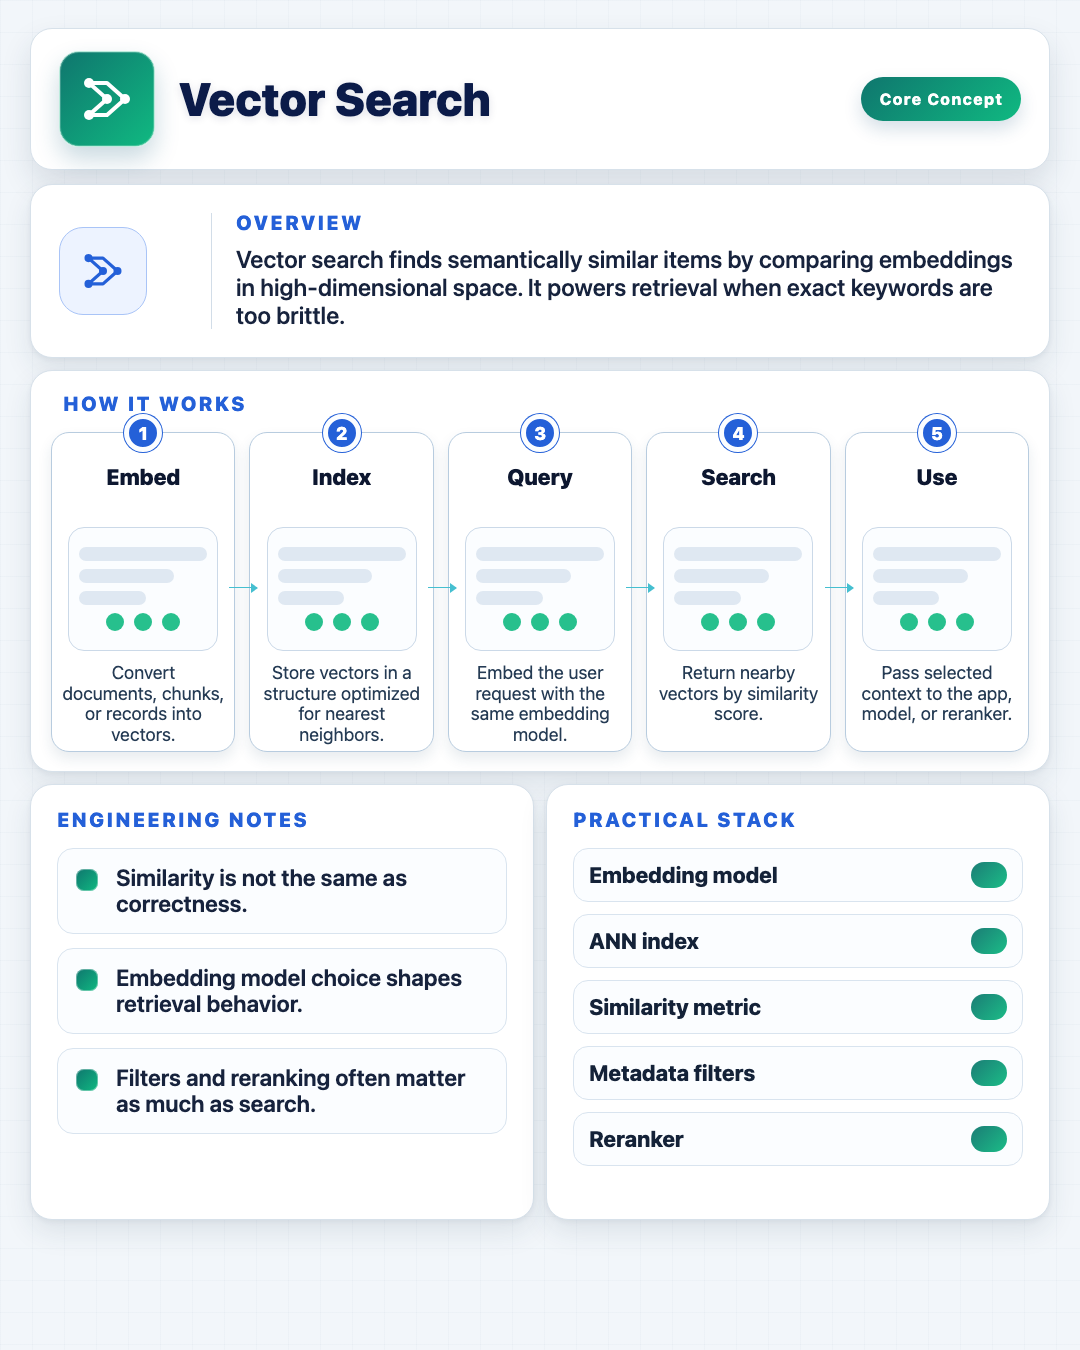
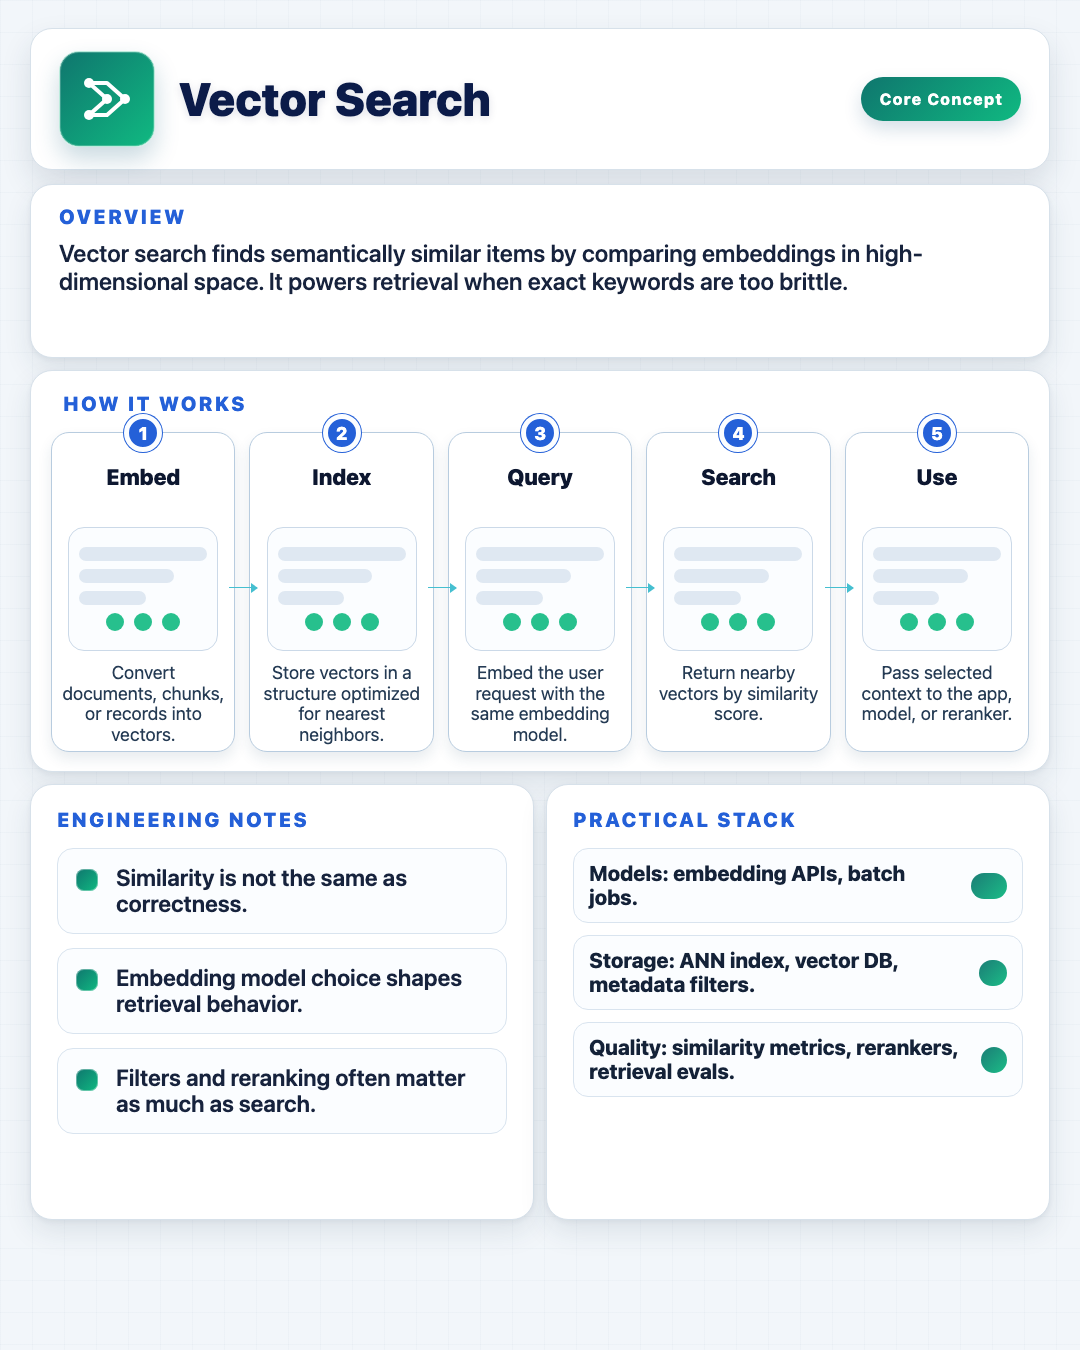
Update AI engineering concept cards and tracker

Changed region(s): [[0.5194, 0.6222, 0.9472, 0.8711], [0.0611, 0.1556, 0.9472, 0.2489], [0.55, 0.84, 0.6417, 0.8711]]

diff --git a/series/ai-engineering-concepts/templates/01-ai-fundamentals/08-fine-tuning-card.html b/series/ai-engineering-concepts/templates/01-ai-fundamentals/08-fine-tuning-card.html
@@ -83,23 +83,7 @@
   .overview {
     height: 174px;
     padding: 22px 28px;
-    display: grid;
-    grid-template-columns: 128px 1fr;
-    gap: 24px;
-    align-items: center;
   }
-  .section-mark {
-    width: 88px;
-    height: 88px;
-    display: grid;
-    place-items: center;
-    border: 1px solid #a9c4f7;
-    border-radius: 24px;
-    color: #2460d8;
-    background: #edf3ff;
-  }
-  .section-mark svg { width: 58px; height: 58px; stroke-width: 2.8; }
-  .overview-copy { border-left: 1px solid #d2dde8; padding-left: 24px; }
   .overview .section-title { margin-bottom: 12px; }
   .overview p {
     margin: 0;
@@ -235,7 +219,7 @@
     gap: 12px;
   }
   .tool {
-    min-height: 54px;
+    min-height: 74px;
     padding: 13px 15px;
     display: flex;
     align-items: center;
@@ -245,8 +229,8 @@
     border-radius: 15px;
     background: #fbfdff;
     color: #142238;
-    font-size: 22px;
-    line-height: 1;
+    font-size: 21px;
+    line-height: 1.12;
     font-weight: 780;
   }
   .tool span {
@@ -273,13 +257,6 @@
   </header>
   <div class="stack">
     <section class="panel overview" aria-labelledby="overview-title">
-      <div class="section-mark"><svg viewBox="0 0 72 72" fill="none" aria-hidden="true">
-    <path d="M18 20h18l18 16-18 16H18l18-16-18-16Z" stroke="currentColor" stroke-width="4" stroke-linejoin="round"/>
-    <circle cx="18" cy="20" r="5" fill="currentColor"/>
-    <circle cx="36" cy="36" r="5" fill="currentColor"/>
-    <circle cx="18" cy="52" r="5" fill="currentColor"/>
-    <circle cx="54" cy="36" r="5" fill="currentColor"/>
-  </svg></div>
       <div class="overview-copy">
         <h2 id="overview-title" class="section-title">OVERVIEW</h2>
         <p>Fine-tuning teaches a model repeated patterns from examples. Use it when behavior, tone, format, or domain-specific decisions must be consistent beyond what prompting or retrieval can reliably provide.</p>
@@ -330,11 +307,9 @@
       <div class="panel tools">
         <h2 class="section-title">PRACTICAL STACK</h2>
         <div class="tool-grid">
-          <div class="tool">Datasets<span></span></div>
-          <div class="tool">Training job<span></span></div>
-          <div class="tool">Eval suite<span></span></div>
-          <div class="tool">Model registry<span></span></div>
-          <div class="tool">Release gates<span></span></div>
+          <div class="tool">Data: curated examples, labels, held-out sets.<span></span></div>
+          <div class="tool">Training: jobs, configs, model versions.<span></span></div>
+          <div class="tool">Release: eval suite, registry, rollback gates.<span></span></div>
         </div>
       </div>
     </section>

diff --git a/series/ai-engineering-concepts/templates/02-retrieval-knowledge-systems/11-vector-search-card.html b/series/ai-engineering-concepts/templates/02-retrieval-knowledge-systems/11-vector-search-card.html
@@ -83,23 +83,7 @@
   .overview {
     height: 174px;
     padding: 22px 28px;
-    display: grid;
-    grid-template-columns: 128px 1fr;
-    gap: 24px;
-    align-items: center;
   }
-  .section-mark {
-    width: 88px;
-    height: 88px;
-    display: grid;
-    place-items: center;
-    border: 1px solid #a9c4f7;
-    border-radius: 24px;
-    color: #2460d8;
-    background: #edf3ff;
-  }
-  .section-mark svg { width: 58px; height: 58px; stroke-width: 2.8; }
-  .overview-copy { border-left: 1px solid #d2dde8; padding-left: 24px; }
   .overview .section-title { margin-bottom: 12px; }
   .overview p {
     margin: 0;
@@ -235,7 +219,7 @@
     gap: 12px;
   }
   .tool {
-    min-height: 54px;
+    min-height: 74px;
     padding: 13px 15px;
     display: flex;
     align-items: center;
@@ -245,8 +229,8 @@
     border-radius: 15px;
     background: #fbfdff;
     color: #142238;
-    font-size: 22px;
-    line-height: 1;
+    font-size: 21px;
+    line-height: 1.12;
     font-weight: 780;
   }
   .tool span {
@@ -273,13 +257,6 @@
   </header>
   <div class="stack">
     <section class="panel overview" aria-labelledby="overview-title">
-      <div class="section-mark"><svg viewBox="0 0 72 72" fill="none" aria-hidden="true">
-    <path d="M18 20h18l18 16-18 16H18l18-16-18-16Z" stroke="currentColor" stroke-width="4" stroke-linejoin="round"/>
-    <circle cx="18" cy="20" r="5" fill="currentColor"/>
-    <circle cx="36" cy="36" r="5" fill="currentColor"/>
-    <circle cx="18" cy="52" r="5" fill="currentColor"/>
-    <circle cx="54" cy="36" r="5" fill="currentColor"/>
-  </svg></div>
       <div class="overview-copy">
         <h2 id="overview-title" class="section-title">OVERVIEW</h2>
         <p>Vector search finds semantically similar items by comparing embeddings in high-dimensional space. It powers retrieval when exact keywords are too brittle.</p>
@@ -330,11 +307,9 @@
       <div class="panel tools">
         <h2 class="section-title">PRACTICAL STACK</h2>
         <div class="tool-grid">
-          <div class="tool">Embedding model<span></span></div>
-          <div class="tool">ANN index<span></span></div>
-          <div class="tool">Similarity metric<span></span></div>
-          <div class="tool">Metadata filters<span></span></div>
-          <div class="tool">Reranker<span></span></div>
+          <div class="tool">Models: embedding APIs, batch jobs.<span></span></div>
+          <div class="tool">Storage: ANN index, vector DB, metadata filters.<span></span></div>
+          <div class="tool">Quality: similarity metrics, rerankers, retrieval evals.<span></span></div>
         </div>
       </div>
     </section>

diff --git a/series/ai-engineering-concepts/publishing-tracker.md b/series/ai-engineering-concepts/publishing-tracker.md
@@ -1,0 +1,36 @@
+# AI Engineering Concepts Publishing Tracker
+
+Use this file to track what has already been published on LinkedIn and what is ready to publish next.
+
+Status values:
+
+- `published`: already posted on LinkedIn.
+- `ready_to_publish`: image/post asset is ready, but not confirmed as published yet.
+- `planned`: selected for later, not ready or not reviewed yet.
+
+## Published
+
+| Roadmap # | Concept | Status | LinkedIn date | Image |
+|---:|---|---|---|---|
+| 1 | Embeddings | published | TBD | `images/01-ai-fundamentals/embeddings.png` |
+| 2 | Tokenization | published | TBD | `images/01-ai-fundamentals/tokenization.png` |
+| 3 | Context Window | published | TBD | `images/01-ai-fundamentals/context-window.png` |
+| 5 | Tool Calling | published | TBD | `images/01-ai-fundamentals/tool-calling.png` |
+| 7 | RAG | published | TBD | `images/01-ai-fundamentals/rag.png` |
+| 13 | Chunking | published | TBD | `images/02-retrieval-knowledge-systems/chunking.png` |
+
+## Ready To Publish
+
+| Roadmap # | Concept | Status | LinkedIn date | Image |
+|---:|---|---|---|---|
+| 4 | Structured Outputs | ready_to_publish | TBD | `images/01-ai-fundamentals/structured-outputs.png` |
+| 6 | Context Engineering | ready_to_publish | TBD | `images/01-ai-fundamentals/context-engineering.png` |
+| 8 | Fine-Tuning | ready_to_publish | TBD | `images/01-ai-fundamentals/08-fine-tuning.png` |
+| 11 | Vector Search | ready_to_publish | TBD | `images/02-retrieval-knowledge-systems/11-vector-search.png` |
+| 17 | Reranking | ready_to_publish | TBD | `images/02-retrieval-knowledge-systems/reranking.png` |
+
+## Notes
+
+- Update `LinkedIn date` after each post is published.
+- Move an item from `Ready To Publish` to `Published` once it is posted.
+- Keep the image path that was actually used in the LinkedIn post.

diff --git a/series/ai-engineering-concepts/posts/01-ai-fundamentals/06-context-engineering-linkedin-post.md b/series/ai-engineering-concepts/posts/01-ai-fundamentals/06-context-engineering-linkedin-post.md
@@ -1,0 +1,15 @@
+# Context engineering is not prompt stuffing
+
+Context engineering is the discipline of deciding what the model should see, in what order, and in what shape. The goal is not to maximize tokens. The goal is to maximize useful signal per request.
+
+In practice, that means separating instructions, retrieval, memory, and tool output. It also means ranking context by relevance, compressing long sources, and dropping low-value text before the model call.
+
+Three reminders that matter in production:
+
+- Treat context as a design problem, not a copy-paste problem.
+- Keep untrusted text away from instructions.
+- Revisit context strategy when the task, retrieval, or model changes.
+
+This is one of the biggest differences between a demo and a system that is actually stable.
+
+#AIEngineering #ContextEngineering #LLM #GenerativeAI #SoftwareEngineering

diff --git a/series/ai-engineering-concepts/posts/02-retrieval-knowledge-systems/13-reranking-linkedin-post.md b/series/ai-engineering-concepts/posts/02-retrieval-knowledge-systems/13-reranking-linkedin-post.md
@@ -1,0 +1,15 @@
+# Reranking is the quality filter after retrieval
+
+Reranking is the step where you score retrieved candidates again with a stronger model or scoring layer. It does not replace retrieval. It improves the order of the results you already found.
+
+This matters because first-pass retrieval is often optimized for recall. Reranking is what you use when the top list is too noisy and you want the most relevant items near the top before generation.
+
+Three practical rules:
+
+- Use reranking when the initial candidate set is broad.
+- Apply the scoring step before the final prompt, not after.
+- Keep the final context small and high precision.
+
+In a RAG pipeline, reranking is often the difference between “good enough” retrieval and retrieval that is actually reliable.
+
+#AIEngineering #Reranking #RAG #VectorSearch #SoftwareEngineering

diff --git a/series/ai-engineering-concepts/posts/01-ai-fundamentals/04-structured-outputs-linkedin-post.md b/series/ai-engineering-concepts/posts/01-ai-fundamentals/04-structured-outputs-linkedin-post.md
@@ -1,0 +1,15 @@
+# Structured outputs make model responses usable
+
+Structured outputs constrain a model to produce a schema your application can trust. Instead of parsing loose text, you ask for a predictable shape such as JSON, fields, or typed records.
+
+This matters because many AI features fail not on reasoning, but on formatting. If the output is malformed, missing fields, or ambiguous, the rest of the system becomes fragile.
+
+Three practical rules:
+
+- Define the schema before the prompt.
+- Validate required fields, types, and enums.
+- Reject or repair malformed output instead of guessing.
+
+If you want the model to drive software, structured outputs are one of the first control points to get right.
+
+#AIEngineering #StructuredOutputs #LLM #SoftwareEngineering #GenerativeAI
